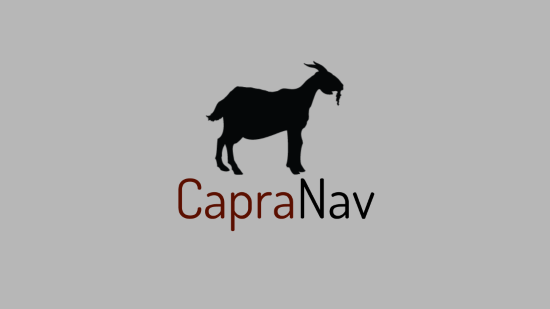
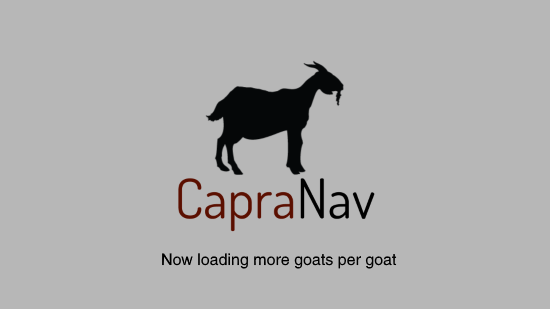
Changes to the image and attribution, also removed window pane from preloader.

Changed region(s): [[0.2782, 0.8155, 0.7418, 0.8738]]

diff --git a/WPI-Nav/src/controller/myPreloader.java b/WPI-Nav/src/controller/myPreloader.java
@@ -16,10 +16,11 @@ import javafx.scene.layout.BorderPane;
 import javafx.scene.layout.Region;
 import javafx.scene.layout.VBox;
 import javafx.stage.Stage;
+import javafx.stage.StageStyle;
 import visuals.Display;
 
 /**
- * Created by Kurt on 12/2/15.
+ * Created by Kurt on 12/2/15.  Modified by Greg afterwards.
  */
 
 
@@ -31,6 +32,8 @@ public class myPreloader extends javafx.application.Preloader {
     public void start(Stage primaryStage) throws Exception {
         this.preloaderStage = primaryStage;
 
+        primaryStage.initStyle(StageStyle.UNDECORATED);
+
         VBox loading = new VBox(20);
         loading.setMaxWidth(Region.USE_PREF_SIZE);
         loading.setMaxHeight(Region.USE_PREF_SIZE);
@@ -41,8 +44,8 @@ public class myPreloader extends javafx.application.Preloader {
         Scene scene = new Scene(root);
 
 
-        primaryStage.setWidth(560);
-        primaryStage.setHeight(350);
+        primaryStage.setWidth(550);  //550 goatnav.png, 360 Preloader.gif
+        primaryStage.setHeight(309);  //309 goatnav.png, 270 Preloader.gif
         primaryStage.setScene(scene);
 
         //this.myDisplay = new Display(this);    //creates scene
